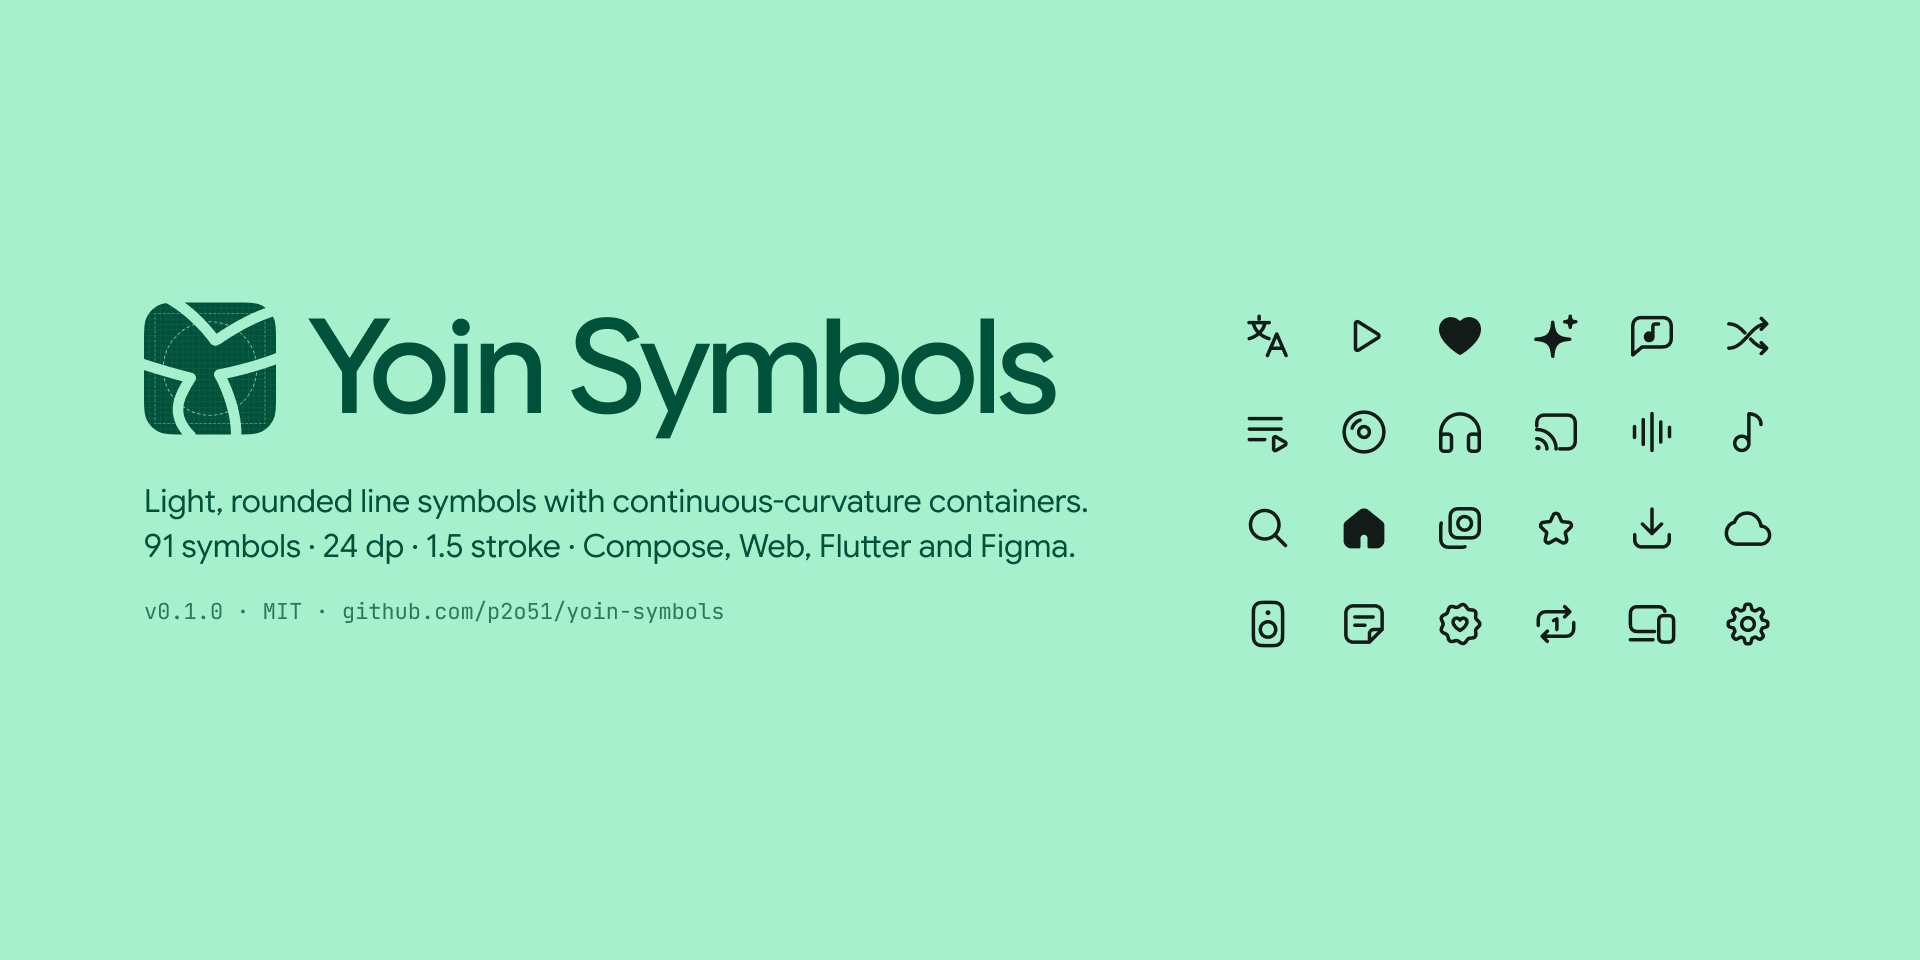
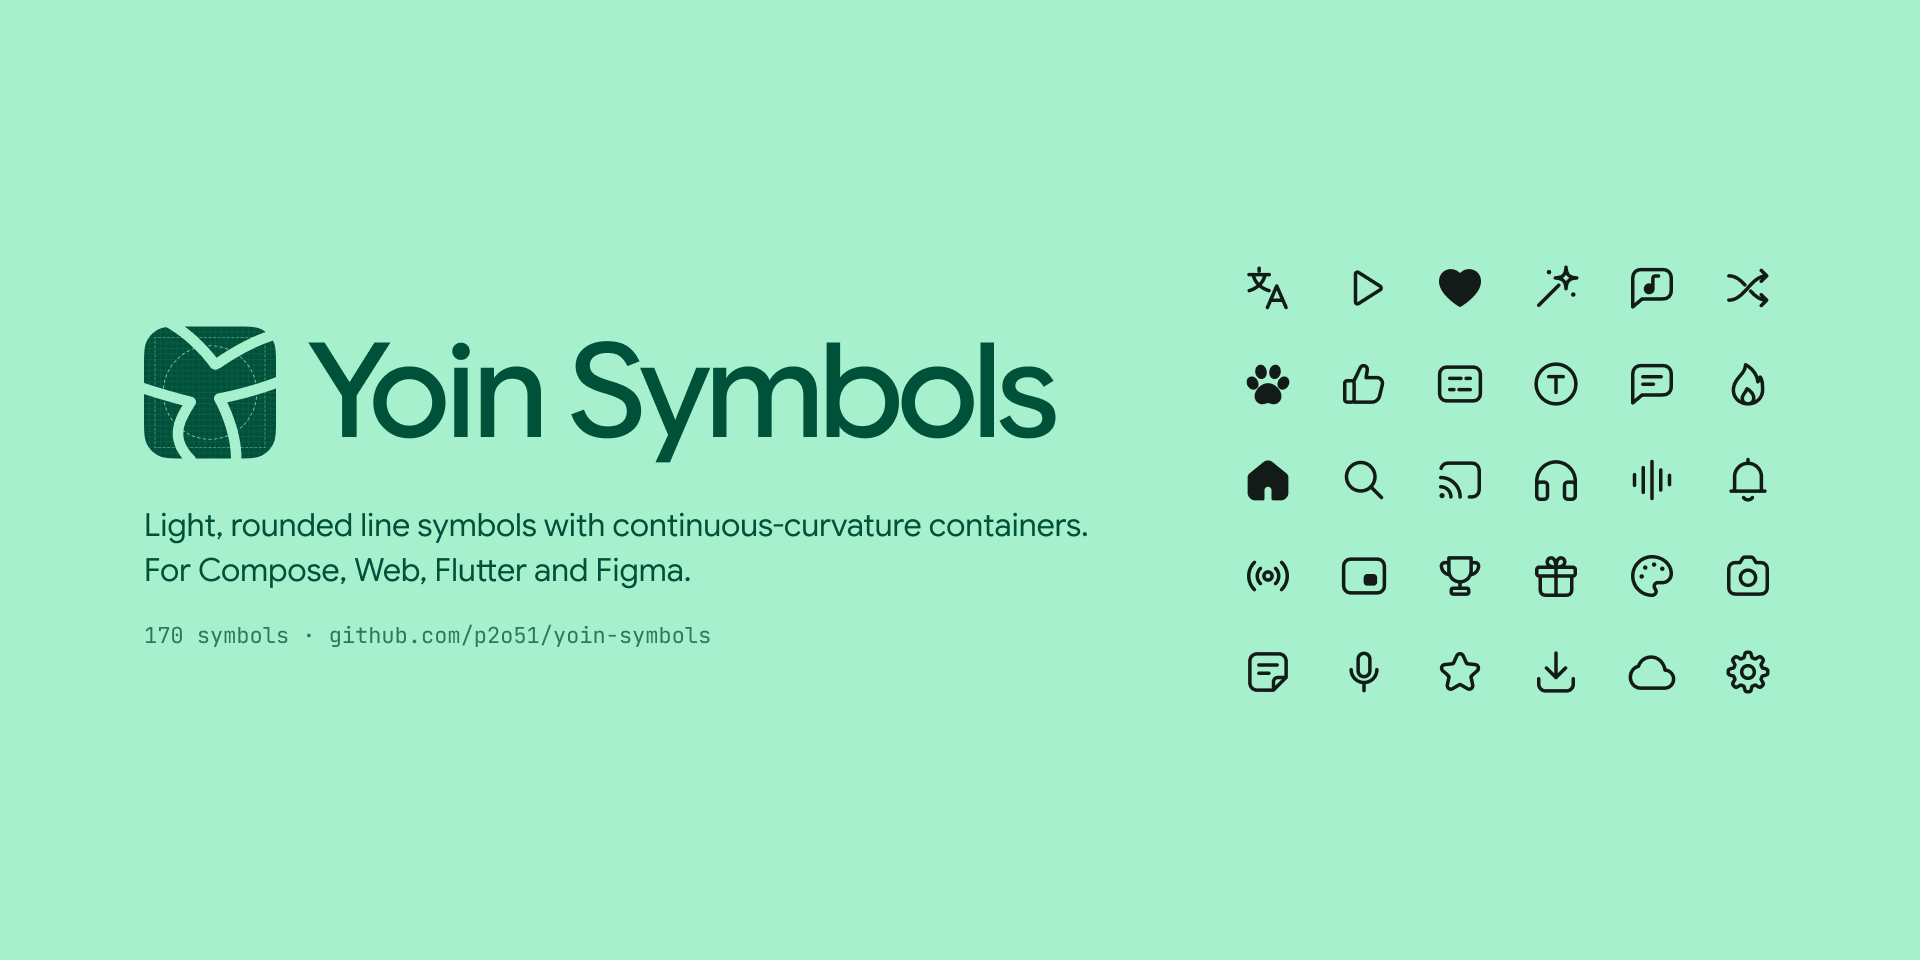
Refresh the cover from the Figma file and update symbol counts
The cover now shows all five groups, including the Paw symbols and
the new sparkle. It is exported from the Cover frame in Figma, and
CONTRIBUTING says so. The web and Flutter READMEs still said 91.

Claude-Session: https://claude.ai/code/session_01MmkpKh1ZjRbjRhHGgPeSBU

diff --git a/web/README.md b/web/README.md
@@ -1,6 +1,6 @@
 # yoin-symbols
 
-Light, rounded line icons with continuous-curvature containers: 91 symbols on a 24 × 24 grid with a 1.5 stroke, round caps and round joins. SVG strings, React components, an SVG sprite and an icon font, all from one source.
+Light, rounded line icons with continuous-curvature containers: 170 symbols on a 24 × 24 grid with a 1.5 stroke, round caps and round joins. SVG strings, React components, an SVG sprite and an icon font, all from one source.
 
 [Gallery](https://p2o51.github.io/yoin-symbols/) · [GitHub](https://github.com/p2o51/yoin-symbols) · MIT
 

diff --git a/CONTRIBUTING.md b/CONTRIBUTING.md
@@ -54,3 +54,5 @@ Refining a drawing is a patch release. Renaming or removing a symbol breaks ever
 ## Figma
 
 The Figma file is maintained by hand from the same drawings. After a release that adds or changes symbols, import the new SVGs from `svg/` into the Symbols page, make them components with the same name and bind their strokes to `icon/default`.
+
+`docs/cover.png` (1920 × 960) and `docs/og.png` (1200 × 600) are exports of the Cover page's frame. When the cover changes, edit it in Figma and export it again at those sizes.

diff --git a/flutter/README.md b/flutter/README.md
@@ -1,6 +1,6 @@
 # yoin_symbols
 
-Light, rounded line icons with continuous-curvature containers for Flutter: 91 symbols on a 24 × 24 grid with a 1.5 stroke, shipped as an icon font for the `Icon` widget.
+Light, rounded line icons with continuous-curvature containers for Flutter: 170 symbols on a 24 × 24 grid with a 1.5 stroke, shipped as an icon font for the `Icon` widget.
 
 [Gallery](https://p2o51.github.io/yoin-symbols/) · [GitHub](https://github.com/p2o51/yoin-symbols) · MIT
 
